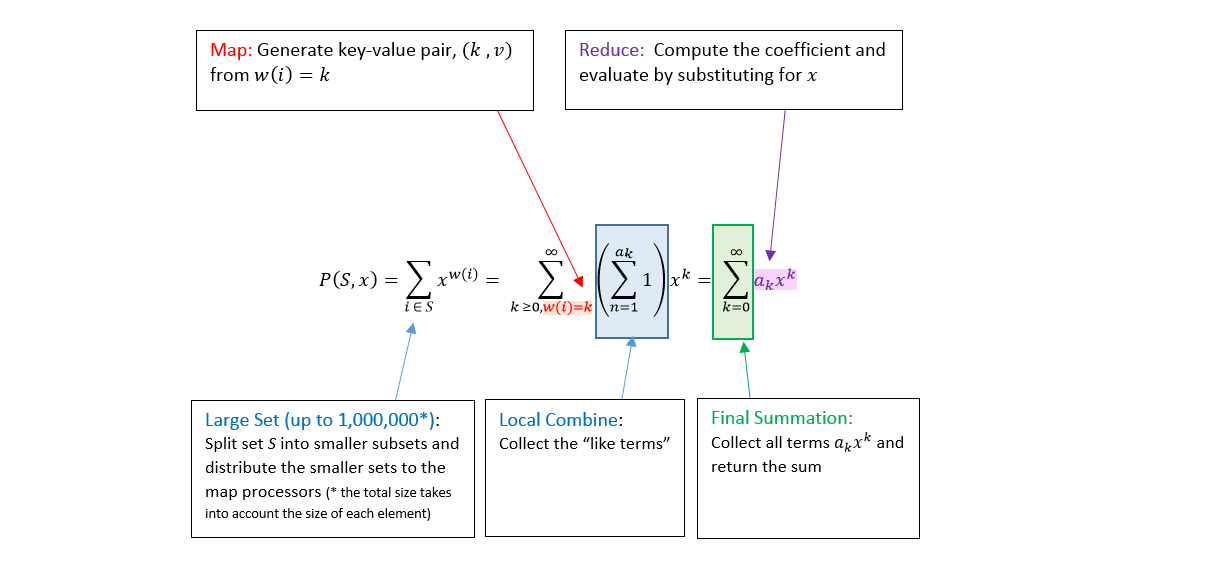
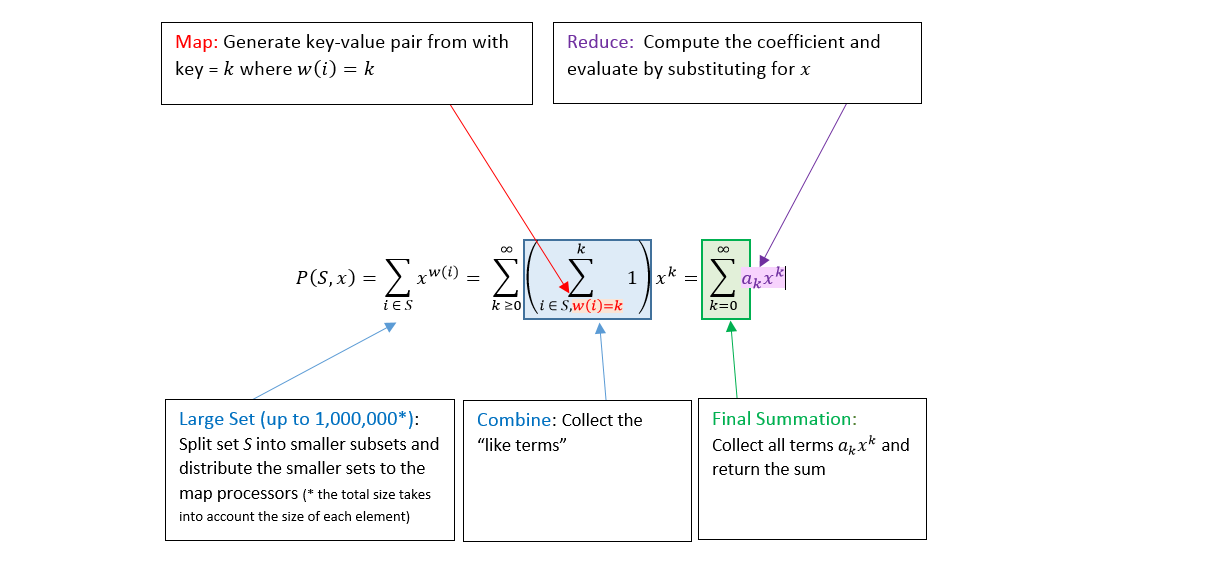
adding in basic files

diff --git a/compute_local.py b/compute_local.py
@@ -4,12 +4,20 @@ from map import map
 from reduce import reduce
 from client import get_num_map_nodes, create_list
 """ 
+
+About the Module
+  
+compute(lst) computes the sum of the generating series
+for a set of elements (lst) implemented as a Python list with respect
+to weight function w().
+
 Notice
 
 this module should not be altered unless one wishes to:
 
 * test the algorithm at some fixed number of map nodes
   uncomment line that contains compute(lst,n,'test')
+  
 * test run time at different input sizes
   uncomment the for-loop block under __name__ == '__main__'
 
@@ -18,42 +26,43 @@ All neccessary parameters is customizable in client.py
 client must provide in client.py the following:
 
 * a method that generates a list using create_lst(), empty list is okay
+
 * a method that specifies the number of map nodes 
   defined as get_num_map_nodes(size_param)
   and size_param is an input size parameter the client can use
-  to adjust number of map nodes
+  to adjust number of map nodes. The user may interpret 
+  size_param in any way he or she likes.
+  
 * a weight method, w(input), that takes the element
   of the given list and returns an integer or float
-  see (map.py) to see how the weight method is used
+  see (map.py to see how the weight method is used)
+  
 * a substitute method, x(), which returns an integer
   or float to replace the variable x in the series
-
-About the Module
-  
-compute(lst) computes the sum of the generating series
-for a set of elements (lst) implemented as a Python list with respect
-to weight function w() (to be defined in client.py).
 
 optional paramers:
     size_param      used to determine appropriate number of map nodes
     option          'not_fixed' or 'fixed' 
                     where
                         'fixed' tells compute() to
-                        keep number of map nodes at some default values
-                        to be defined in the client module
+                        keep number of map nodes fixed at some default values
+                        regardless of the input size (5)
                         
-                        'not_fixed' will 
+                        'not_fixed' will use get_num_map_nodes(size_param)
+                        to determine the number of map nodes as a function 
+                        of size_param
 
 lst may be a list of any type (integer, list, etc), as long as
-it is consistent in the implementation of w()
+the types are consistent with implementation of w()
 
 User may also provide a parameter for n which can be
 used to set number of map nodes
 
 """
+
 def compute(lst, size_param = 0, option='not_fixed'):
     try:       
-        # number of map nodes num_map_nodes
+        # number of map nodes is num_map_nodes
         if option=='not_fixed':
             num_map_nodes = get_num_map_nodes(size_param)
         elif option == 'fixed':
@@ -62,6 +71,9 @@ def compute(lst, size_param = 0, option='not_fixed'):
             raise NameError('second parameter [option] should be either `not_fixed` or `fixed` ... see documentation')
         
         # Manager to keep track of all map results
+        manager = Manager()
+        
+        # Store key value emitted from map nodes here
         list_of_emissions = []
         
         # Job is a list of processes
@@ -70,12 +82,10 @@ def compute(lst, size_param = 0, option='not_fixed'):
         # Process number
         num_p = 0    
         
-        manager = Manager()
-        
+        # Timer
         start_time = time.time() 
         
-        print ("Up to Permutation:", str(time.time() - start_time ) + " seconds"  )
-        
+        # Get list size
         len_lst = len(lst)
         
         print ("Size of S: ", len_lst)
@@ -84,8 +94,8 @@ def compute(lst, size_param = 0, option='not_fixed'):
         i=0
         
         #Split input into muliple sliced_list each sent to one map node
-        
         while i < len_lst:
+            #list_of_emissions[i] hold key value pairs emitted from one map node i
             list_of_emissions.append(manager.list())
             if (len_lst - i <= len_sublist):
                 # last step
@@ -106,13 +116,14 @@ def compute(lst, size_param = 0, option='not_fixed'):
         
         print ("Up to Mapping Stage:", str(time.time() - start_time ) + " seconds"  )
 
-        #---------------------------------------------------
         # Shuffle/Reduce
         
         jobs = []   
         manager_2 = Manager()    
         result_lst = manager_2.list()    
 
+        # This is the step five optimization (duplicating
+        # number of reduce nodes for each key)
         for emissions in list_of_emissions:
             for key in range(emissions[-1][1],emissions[-1][2]+5):
                 key_list = [1 for x in emissions if x[0] == key]

diff --git a/map.py b/map.py
@@ -2,8 +2,14 @@ from client import weight
 
 """ map function takes (slice_number, sublist_of_element, emissions)
 as inputs and appends (weight(element), min, max) (weight(element) is the key)
-to emissions, where min, max are the lowest and highest weight(element) keys
-in emissions
+to emissions"""
+
+
+"""
+min and max are minimum and maximum keys emitted from
+completed map processes. This is to keep track of the upper and 
+lower bound of key range, and avoid going through the
+list again to determine the maximum and minimum key values.
 """
 
 def map (slice_number, sublist_of_element, emissions):

diff --git a/README.md b/README.md
@@ -5,6 +5,29 @@ Evaluating generating series with large input data using Map-Reduce pattern
 
 * Live Demo: http://generatingseries.herokuapp.com
 
+##### Introduction
+
+Parallel programming allows the program to run multiple processes concurrently. This allows a large data set 
+to be split into smaller input for each worker node.
+
+This programming technique can be useful in evaluating the sum generating series (defined in the next section). 
+Below is a an example of a generating series with weight function that returns 1 if the input is consonant,
+and 0 if it is a vowel.
+
+![Equation](https://raw.githubusercontent.com/hyunwookshin/generating_series/master/equation/equation_example.png)
+
+
+Instead of evaluating of every term, we can first collect the like terms, evaluate the sum of coefficients, then evaluate the combined term.
+List comprehension in Python is highly optimized for collecting particular set of elements from a list. We can, thus, use Python list comprehension to collect the like terms.
+
+Each map node computes one segment of the input data, a list of elements.
+
+A power of each term is determined by a function of one particular element in the list. 
+The terms of the same power will be combined. The power serves as keys when combining like terms.
+
+Combiner aggregates like terms with the same power. Reduce node then computes the value of the combined term. 
+Finally, the total sum is determined by aggregating the outputs of each reduce node.
+
 ##### Generating Series
 
 Generating Series is defined by the generating function P(S,x)
@@ -12,8 +35,6 @@ Generating Series is defined by the generating function P(S,x)
 ![Equation](https://raw.githubusercontent.com/hyunwookshin/generating_series/master/equation/equation.png)
 
 * v stores the upper and lower bound for keys see compute_local.py for detailed documentation
-
-![Equation](https://raw.githubusercontent.com/hyunwookshin/generating_series/master/equation/equation_example.png)
 
 ##### Support
 Python 3
@@ -24,9 +45,20 @@ The optimization is implemented in five steps:
 
 Optimizations
 * Step 1. Map Reduce Pattern
+
+Map reduce pattern is used to take advantages of multiprocessing capabilities of the machine.
+
 * Step 2. Local Combiner as opposed to Global Combiner
+
+Instead of combining outputs of all map nodes, designate a local combiner to each
+map node.
+
 * Step 3. Adjustment in number of map nodes
 * Step 4. Quick way to determine upper and lower bound for key
+
+Keep track of maximum and minimum key in the past outputs. This is to
+prevent going over the list multiple times to determine maximum and minimum keys.
+
 * Step 5. Increase the number of reduce nodes to speed up reduce processes
 
 1. First Step: Split input data into smaller inputs and follow Map Reduce Pattern
@@ -42,19 +74,29 @@ Optimizations
 #####  How to run
 
 1. Customize client.py
-  * implement your own weight function w() that returns a power in the series that will operate on each element of the set
-  * optional: implement get_num_map_nodes(size_param) -> (returns number of map nodes) 
-    where size_param is a variable you can use to categorize input by size
-    the number of map nodes should be higher with the larger input size
-  * optional: inplement x() -> (returns a number) to be used to substitute for variable x
-  * optional: implement create_list() -> (returns a list) to be used as input
+  * weight function w(input: list of elements) 
+  
+  returns a power in the series that will operate on each element of the list
+  
+  * get_num_map_nodes(size_param) optional
+	
+  returns number of map nodes
+  where size_param is a variable you can use to categorize input by size
+    
+  * x() 
+  
+  returns a number to be used to substitute for variable x
+  
+  * ocreate_list() 
+  
+  returns a list to be used as an input
   
 2. Run command [your_path_to]/Python34/python.exe compute_local.py
   * Call function compute(lst,size_param,option)
     where lst is a list of (list, integer, or float)
   * size_param is a variable that indicates the size of the input (you define it in anyway you like)
   * option is one of 'fixed' or 'not_fixed'
-  * 'fixed'         : set number of map nodes to 15 (you can modify this in compute_local.py)
+  * 'fixed'         : set number of map nodes to 5 (you can modify this in compute_local.py)
   * 'not_fixed'     : set number of map nodes to get_num_map_nodes(size_param) in client.py
 
 3. You can also run different tests by uncommenting some of the codes in __name__ == __main__
@@ -66,31 +108,3 @@ Optimizations
    
    It is also recommended to set option to not_fixed to minimize running time
    while 'fixed' option is recommended for testing purposes
-
-5. General Implementation
-
-   Map function generates the powers of x in the series, reduce function collects the like terms,
-   and combiner returns the sum of the terms by susbstituting for x.
-
-   Split Input:   Split list into sublists by the number of map nodes. The last list may be shorter
-                  than all others.
-                
-   Map:           Input:   index of the sublist and its corresponding sublist contents <br>
-                  Returns: key = weight(element of the sublist), value = "max and min"**
-                
-                  ** "max and min" means the largest and smallest key values emitted by
-                  other map nodes. This is to keep track of upper and lower bound of the key range
-                  
-  Local Combine:  Aggregates all key value pairs with same keys into a list
-  
-  Reduce:         Input:  Counts number of key value pairs (one particular key for reduce) <br>
-                  Returns:Value of ax^k where a is the coefficient (= count), x is obtained
-                  from x() from client.py, and k is optained from weight function w() from client.py)
-                  
-  Combine:        Evaluates sum of all terms from reduce nodes
-  
-   
-
-  
-  
-  
